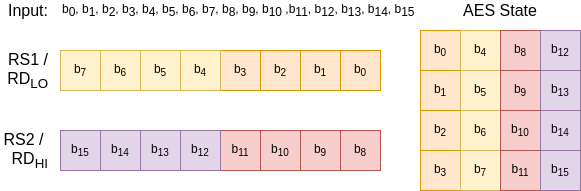
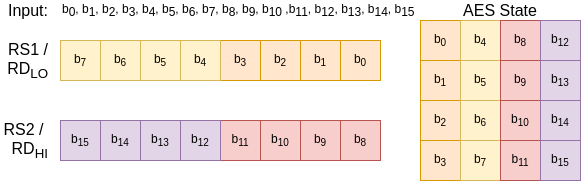
Spec: flower arranging and extra notes.
- clmul justifications
- changelog
- diagram updates

 On branch dev/next-release
 Your branch is ahead of 'origin/dev/next-release' by 1 commit.
   (use "git push" to publish your local commits)

 Changes to be committed:
	modified:   doc/diagrams/aes-rv64-state.png
	modified:   doc/diagrams/aes-rv64.drawio
	modified:   doc/tex/changelog.tex
	modified:   doc/tex/sec-scalar-aes.tex
	modified:   doc/tex/sec-scalar-bitmanip.tex
	modified:   doc/tex/sec-scalar-lut4.tex

diff --git a/doc/tex/sec-scalar-bitmanip.tex b/doc/tex/sec-scalar-bitmanip.tex
@@ -40,15 +40,10 @@ to the Bitmanip draft specification.
 \subsubsection{Rotations}
 
 \begin{cryptobitmanipisa}
-RV32, RV64:
-    ror    rd, rs1, rs2
-    rol    rd, rs1, rs2
-    rori   rd, rs1, imm
-
-RV64 only:
-    rorw   rd, rs1, rs2
-    rolw   rd, rs1, rs2
-    roriw  rd, rs1, imm
+RV32, RV64:                         RV64 only:
+    ror    rd, rs1, rs2                 rorw   rd, rs1, rs2
+    rol    rd, rs1, rs2                 rolw   rd, rs1, rs2
+    rori   rd, rs1, imm                 roriw  rd, rs1, imm
 \end{cryptobitmanipisa}
 
 See \cite[Section 3.1.1]{riscv:bitmanip:draft} for details of
@@ -69,13 +64,9 @@ SHA512, SHA3.
 \subsubsection{Other Permutations: {\tt grev} and {\tt shfl}}
 
 \begin{cryptobitmanipisa}
-RV32, RV64:
-    grev rd, rs1, rs2
-    grevi rd, rs1, imm
-
-RV64 only:
-    grevw rd, rs1, rs2
-    greviw rd, rs1, imm
+RV32, RV64:                         RV64 only:
+    grev rd, rs1, rs2                   grevw rd, rs1, rs2
+    grevi rd, rs1, imm                  greviw rd, rs1, imm
 \end{cryptobitmanipisa}
 
 The Generalised Reverse ({\tt grev*}) instructions can be used for 
@@ -92,15 +83,11 @@ This instruction is also useful for getting data into the right form
 for being posted to a dedicated accelerator.
 
 \begin{cryptobitmanipisa}
-RV32, RV64:
-    shfl    rd, rs1, rs2
-    unshfl  rd, rs1, rs2
+RV32, RV64:                         RV64:
+    shfl    rd, rs1, rs2                shflw   rd, rs1, rs2
+    unshfl  rd, rs1, rs2                unshflw rd, rs1, rs2
     shfli   rd, rs1, rs2
     unshfli rd, rs1, rs2
-
-RV64:
-    shflw   rd, rs1, rs2
-    unshflw rd, rs1, rs2
 \end{cryptobitmanipisa}
 
 The generalised shuffle instructions are useful for implementing
@@ -123,15 +110,10 @@ at the moment.}
 \subsubsection{Carry-less Multiply}
 
 \begin{cryptobitmanipisa}
-RV32, RV64:
-    clmul rd, rs1, rs2
-    clmulh rd, rs1, rs2
-    clmulr rd, rs1, rs2
-
-RV64 only:
-    clmulw rd, rs1, rs2
-    clmulhw rd, rs1, rs2
-    clmulrw rd, rs1, rs2
+RV32, RV64:                         RV64 only:
+    clmul rd, rs1, rs2                  clmulw rd, rs1, rs2
+    clmulh rd, rs1, rs2                 clmulhw rd, rs1, rs2
+    clmulr rd, rs1, rs2                 clmulrw rd, rs1, rs2
 \end{cryptobitmanipisa}
 
 See \cite[Section 2.6]{riscv:bitmanip:draft} for details of
@@ -140,7 +122,8 @@ As is mentioned there, obvious cryptographic use-cases for carry-less
 multiply are for Galois Counter Mode (GCM) block cipher operations
 \footnote{\url{https://en.wikipedia.org/wiki/Galois/Counter_Mode}}.
 GCM is recommended by NIST as a block cipher mode of operation
-\cite{nist:gcm}.
+\cite{nist:gcm}, and is the only {\em required} mode for the TLS 1.3
+protocol.
 
 \subsubsection{Conditional Move}
 
@@ -177,14 +160,10 @@ software based power/EM side-channel countermeasures based on masking.
 \subsubsection{Packing}
 
 \begin{cryptobitmanipisa}
-RV32, RV64: 
-    pack   rd, rs1, rs2
-    packu  rd, rs1, rs2
+RV32, RV64:                         RV64: 
+    pack   rd, rs1, rs2                 packw  rd, rs1, rs2
+    packu  rd, rs1, rs2                 packuw rd, rs1, rs2
     packh  rd, rs1, rs2
-
-RV64: 
-    packw  rd, rs1, rs2
-    packuw rd, rs1, rs2
 \end{cryptobitmanipisa}
 
 See \cite[Section 2.1.4]{riscv:bitmanip:draft} for details of

diff --git a/doc/tex/changelog.tex b/doc/tex/changelog.tex
@@ -1,26 +1,33 @@
 
 \begin{itemize}
-\item[17/12/19] - Initial first version shown to Crypto Task group.
+\item[17/12/19] \begin{itemize}
+    \item Initial first version shown to Crypto Task group.
+\end{itemize}
 \item[10/01/20] \begin{itemize}
     \item Don't recommend funnel shifts for RV64, 128-bit rotations
           are not common enough to justify.
     \item Change LUT4 instruction. Go for very efficient RV64 instruction
           and split 4-to-2 32-bit instruction.
           Avoids extra ternary instructions.
-    \end{itemize}
+\end{itemize}
 \item[20/01/20] \begin{itemize}
     \item LUT4 specification updates for 32-bit variant based on TG discussion.
     \item Initial performance code size impact for SHA256/512 instructions.
-    \end{itemize}
-\item[24/01/20] Split AES proposals into 3 variants.
+\end{itemize}
+\item[24/01/20] \begin{itemize}
+    \item Split AES proposals into 3 variants.
+\end{itemize}
 \item[19/02/20] \begin{itemize}
     \item Revisions to AES proposals and added benchmarking results.
     \item Added SHA256/512 benchmark results.
     \item Added AES        benchmark results.
     \item Codified scalar extension design policies.
-    \end{itemize}
+\end{itemize}
 \item[09/03/20] \begin{itemize}
     \item Selected Markku's lightweight AES proposal for RV32.
     \item Added a dedicated RV64 scalar AES proposal.
+\end{itemize}
+\item[26/03/20] \begin{itemize}
+    \item Modified AES RV64 proposal with Barry's improved KeySchedule.
 \end{itemize}
 \end{itemize}

diff --git a/doc/tex/sec-scalar-aes.tex b/doc/tex/sec-scalar-aes.tex
@@ -156,16 +156,14 @@ and \mnemonic{saes64.*.hi} instructions respectivley.
 \label{fig:aes:rv64:mapping}
 \end{figure}
 
-\begin{figure}[h]
+\begin{figure}[h!]
 \begin{lstlisting}[language=pseudo]
-round_consts.8 = [0x01, 0x02, 0x04, 0x08, 0x10, 0x20, 0x40, 0x80, 0x1b, 0x36]
-
 saes64.ks1(rs1,enc_rcon):      // KeySchedule: SubBytes, Rotate, Round Const
     temp.32   = rs1.32[1]
     rcon      = 0x0
     if(enc_rcon != 0xA):
         temp.32 = ROTR32(temp.32, 8)
-        rcon    = round_consts.8[enc_rcon]
+        rcon    = AESRoundConstants.8[enc_rcon]
     temp.8[i] = AESSBox(temp.8[i])  for i=0..3
     temp.8[0] = temp.8[i  ] ^ rcon
     rd.64     = {temp.32, temp.32}

diff --git a/doc/tex/sec-scalar-lut4.tex b/doc/tex/sec-scalar-lut4.tex
@@ -10,7 +10,7 @@ lut4lo  rd, rs1, rs2    // RV32, RV64
 lut4hi  rd, rs1, rs2    // RV32, RV64
     for i = 0..7 : rd.4[i] = rs2.4[rs1.4[i]&0x7] if (rs1.4[i] >= 8) else 0
 
-lut4    rd, rs1, rs2    // RV32, RV64
+lut4    rd, rs1, rs2    //       RV64
     for i = 0..15 : rd.4[i] = rs2.4[rs1.4[i]]
 \end{cryptoisa}
 
